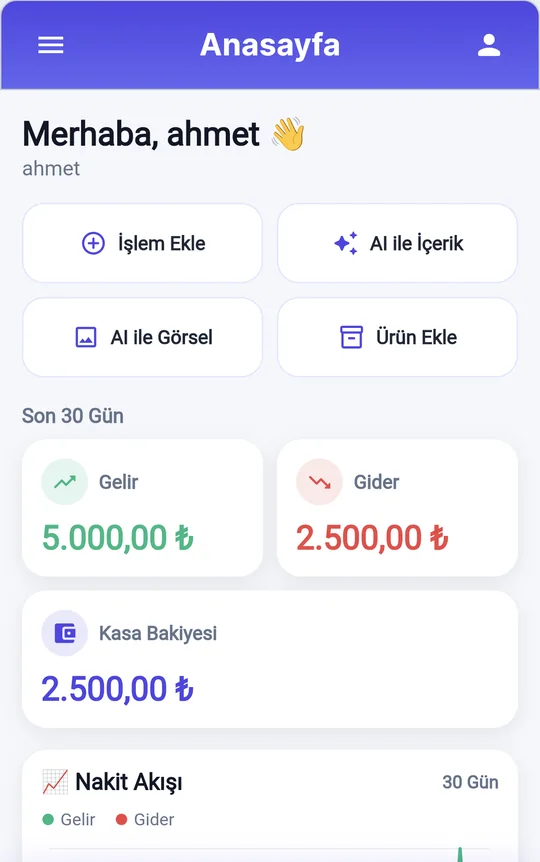
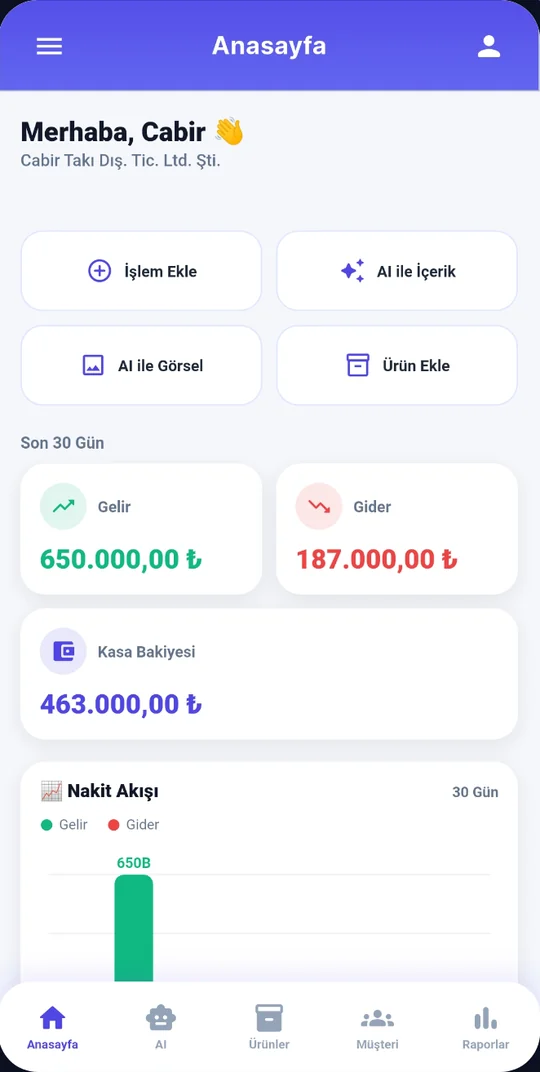
Sitedeki uygulama ekran görüntüleri güncel ekranlarla değiştirildi
Anasayfa, AI metin, AI görsel, Ürünler, Müşteriler ve Paketler ekranları; eski Raporlar görselleri kaldırıldı.

Claude-Session: https://claude.ai/code/session_014dY5Qn4ZfNfQHpL4qck69R

diff --git a/index.html b/index.html
@@ -36,8 +36,8 @@
     </div>
   </div>
   <div class="hero-phones" aria-hidden="true">
-    <div class="phone back"><img src="/img/ai.webp" alt="" width="540" height="862"></div>
-    <div class="phone front"><img src="/img/anasayfa.webp" alt="" width="540" height="862"></div>
+    <div class="phone back"><img src="/img/ai.webp" alt="" width="540" height="1072"></div>
+    <div class="phone front"><img src="/img/anasayfa.webp" alt="" width="540" height="1072"></div>
   </div>
 </section>
 
@@ -57,11 +57,12 @@
   <h2 class="sec" id="ekranlar">Uygulamadan ekranlar</h2>
   <p class="lead">Sade, hızlı ve telefonda kullanmak için tasarlandı.</p>
   <div class="shots">
-    <figure><div class="phone"><img src="/img/ai.webp" alt="AI Asistan ekranı: ürün açıklaması ve görsel oluşturma" width="540" height="862" loading="lazy"></div><figcaption>AI Asistan</figcaption></figure>
-    <figure><div class="phone"><img src="/img/urunler.webp" alt="Ürünler ekranı: fiyat, kategori ve stok bilgisiyle ürün listesi" width="540" height="862" loading="lazy"></div><figcaption>Ürünler</figcaption></figure>
-    <figure><div class="phone"><img src="/img/musteriler.webp" alt="Müşteriler ekranı: telefon, e-posta ve adres bilgileriyle müşteri kartı" width="540" height="862" loading="lazy"></div><figcaption>Müşteriler</figcaption></figure>
-    <figure><div class="phone"><img src="/img/raporlar.webp" alt="Raporlar ekranı: net kâr, toplam gelir ve gider" width="540" height="862" loading="lazy"></div><figcaption>Raporlar</figcaption></figure>
-    <figure><div class="phone"><img src="/img/raporlar-2.webp" alt="Raporlar ekranı: gider dağılımı ve son işlemler" width="540" height="862" loading="lazy"></div><figcaption>Dağılım ve son işlemler</figcaption></figure>
+    <figure><div class="phone"><img src="/img/anasayfa.webp" alt="Anasayfa ekranı: son 30 günün geliri, gideri, kasa bakiyesi ve nakit akışı" width="540" height="1072" loading="lazy"></div><figcaption>Anasayfa</figcaption></figure>
+    <figure><div class="phone"><img src="/img/ai.webp" alt="AI İçerik Oluştur ekranı: ürün açıklaması, pazaryeri ve sosyal medya metni" width="540" height="1072" loading="lazy"></div><figcaption>AI satış metni</figcaption></figure>
+    <figure><div class="phone"><img src="/img/ai-gorsel.webp" alt="AI Görsel ekranı: görsel türü, platform ve boyut seçimi" width="540" height="1072" loading="lazy"></div><figcaption>AI görsel</figcaption></figure>
+    <figure><div class="phone"><img src="/img/urunler.webp" alt="Ürünler ekranı: fiyat, kategori ve stok bilgisiyle ürün listesi" width="540" height="1072" loading="lazy"></div><figcaption>Ürünler</figcaption></figure>
+    <figure><div class="phone"><img src="/img/musteriler.webp" alt="Müşteriler ekranı: telefon, e-posta ve adres bilgileriyle müşteri kartları" width="540" height="1072" loading="lazy"></div><figcaption>Müşteriler</figcaption></figure>
+    <figure><div class="phone"><img src="/img/premium.webp" alt="Premium Paketler ekranı: Ücretsiz, Plus ve Pro planları" width="540" height="1072" loading="lazy"></div><figcaption>Paketler</figcaption></figure>
   </div>
 </section>
 

diff --git a/style.css b/style.css
@@ -60,7 +60,7 @@ a.store{text-decoration:none}
 /* phones */
 .phone{border:7px solid var(--frame);border-radius:30px;overflow:hidden;background:var(--frame);box-shadow:0 18px 40px rgba(15,23,42,.14)}
 .phone img{display:block;width:100%;height:auto}
-.hero-phones{position:relative;justify-self:center;width:min(360px,100%);aspect-ratio:1/1.12}
+.hero-phones{position:relative;justify-self:center;width:min(360px,100%);aspect-ratio:1/1.3}
 .hero-phones .phone{position:absolute;width:62%}
 .hero-phones .front{left:0;top:0;z-index:2;box-shadow:0 28px 60px rgba(79,70,229,.28)}
 .hero-phones .back{right:0;top:9%;transform:rotate(5deg);opacity:.95}
@@ -71,7 +71,7 @@ a.store{text-decoration:none}
 .lead{color:var(--muted);margin:0 0 24px;max-width:60ch}
 .features{margin-top:0}
 .f.wide{grid-column:1/-1}
-.shots{display:grid;grid-template-columns:repeat(5,minmax(0,1fr));gap:16px}
+.shots{display:grid;grid-template-columns:repeat(6,minmax(0,1fr));gap:14px}
 .shots figure{margin:0}
 .shots .phone{border-width:5px;border-radius:22px}
 .shots figcaption{text-align:center;font-size:13px;font-weight:700;color:var(--muted);margin-top:10px}
